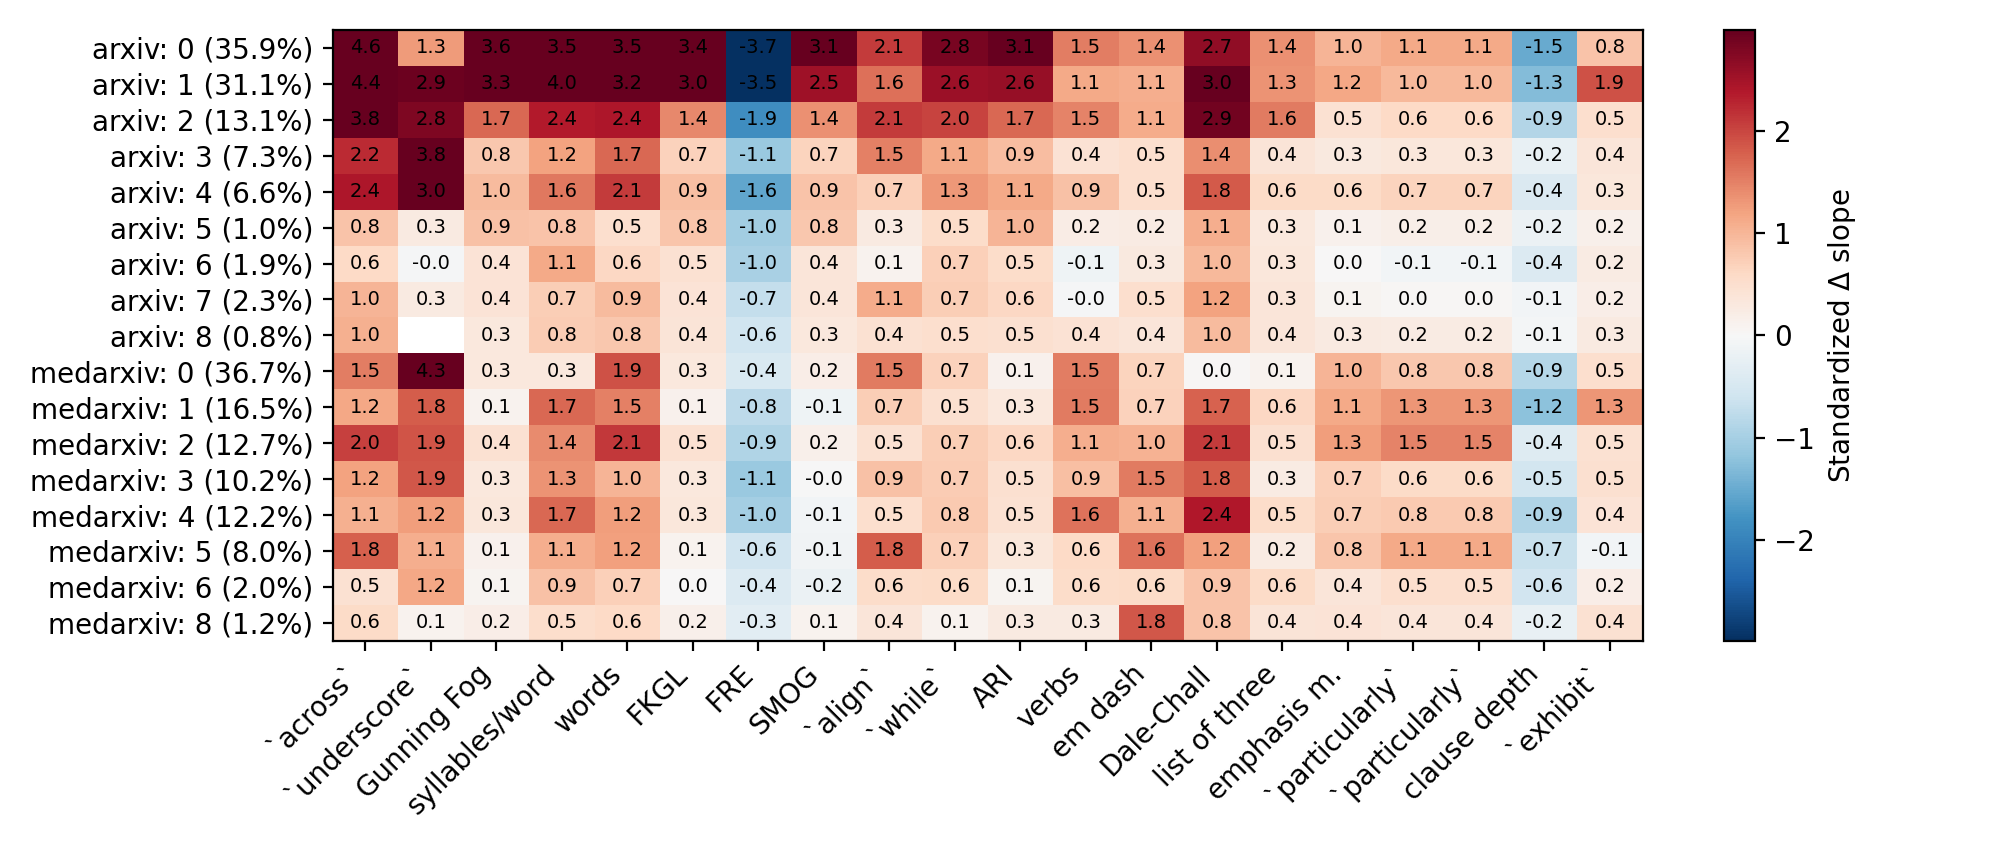
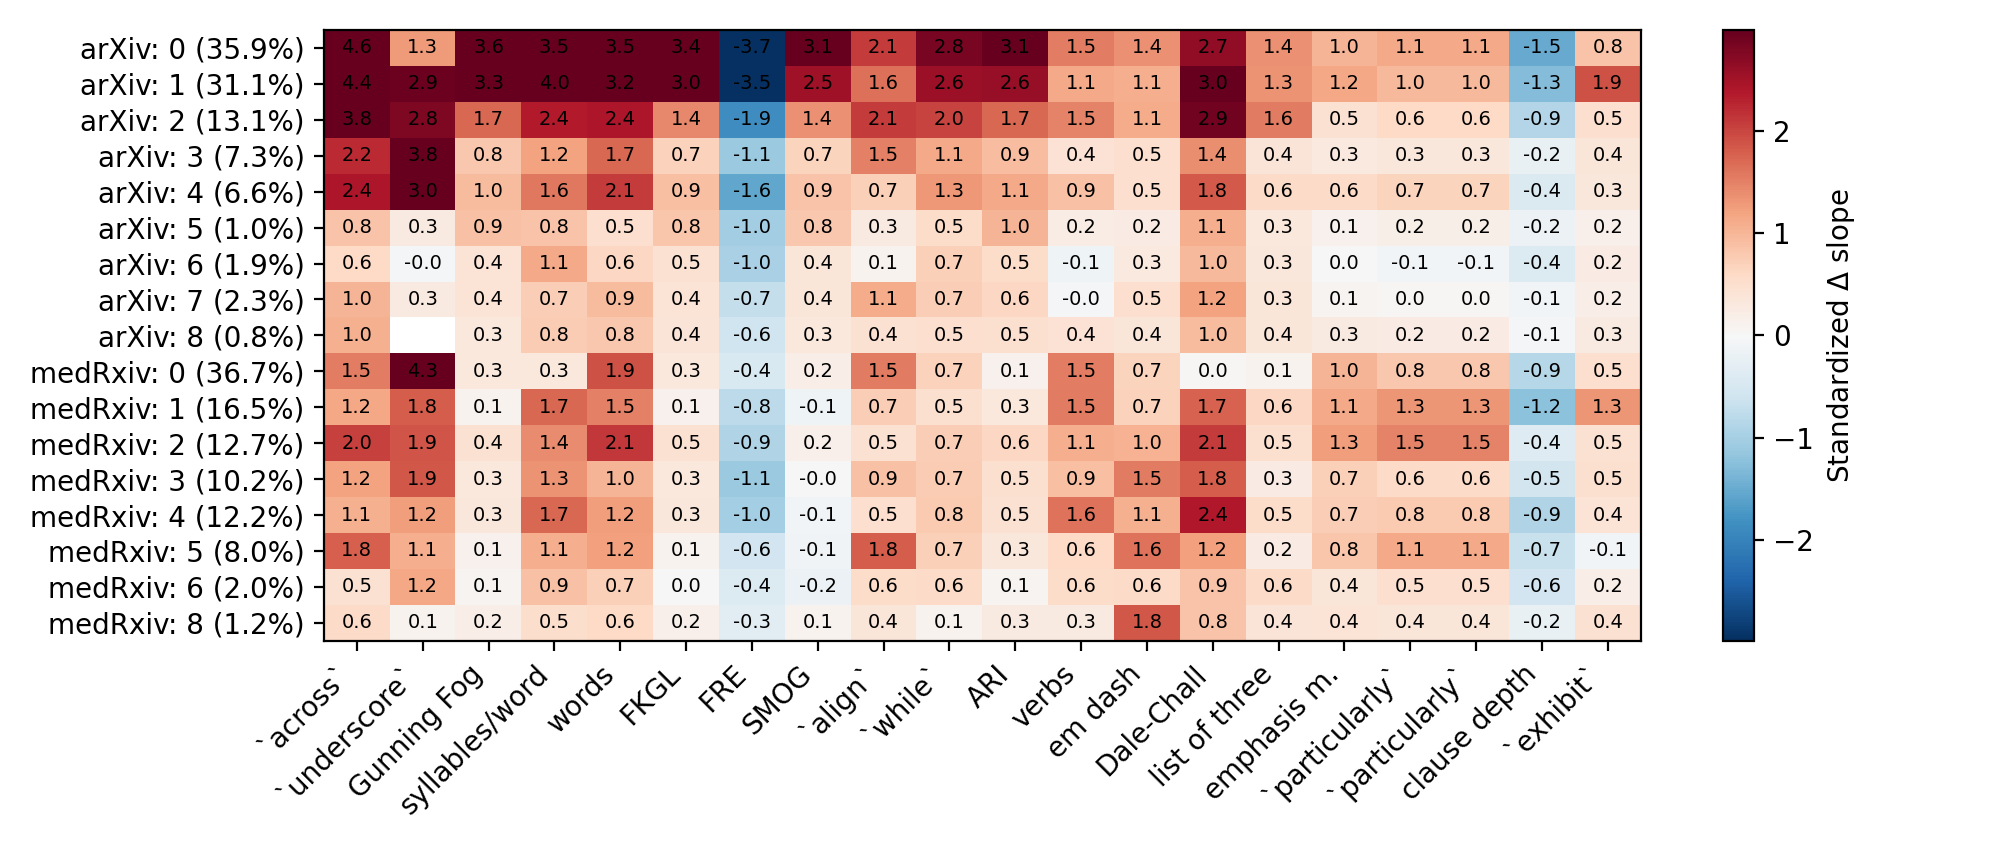
fix domain names

diff --git a/src/not_an_llm/analysis/topic_modeling/comparison.py b/src/not_an_llm/analysis/topic_modeling/comparison.py
@@ -354,7 +354,7 @@ def _save_feature_strength_heatmap(df: pd.DataFrame, features: tuple[str, ...], 
 
     plot_df = df.copy()
     plot_df["topic"] = plot_df.apply(
-        lambda row: f"{row['domain']}: {row['topic_id']} ({row['abstract_share']:.1%})",
+        lambda row: f"{_domain_label(row['domain'])}: {row['topic_id']} ({row['abstract_share']:.1%})",
         axis=1,
     )
     values = plot_df[heatmap_cols].replace([np.inf, -np.inf], np.nan)
@@ -403,7 +403,7 @@ def _save_standardized_its_heatmap(df: pd.DataFrame, features: tuple[str, ...], 
         return
     value_table = value_table[available_features].reset_index()
     value_table["topic"] = value_table.apply(
-        lambda row: f"{row['domain']}: {int(row['topic_id'])} ({row['abstract_share']:.1%})",
+        lambda row: f"{_domain_label(row['domain'])}: {int(row['topic_id'])} ({row['abstract_share']:.1%})",
         axis=1,
     )
 
@@ -460,3 +460,8 @@ def _value_at_year(wide: pd.DataFrame, topic_id: int, year: int) -> float:
 def _require_file(path: Path) -> None:
     if not path.exists():
         raise FileNotFoundError(f"Required topic analysis file not found: {path}")
+
+
+def _domain_label(domain: object) -> str:
+    value = str(domain)
+    return DOMAIN_LABELS.get(value, value)